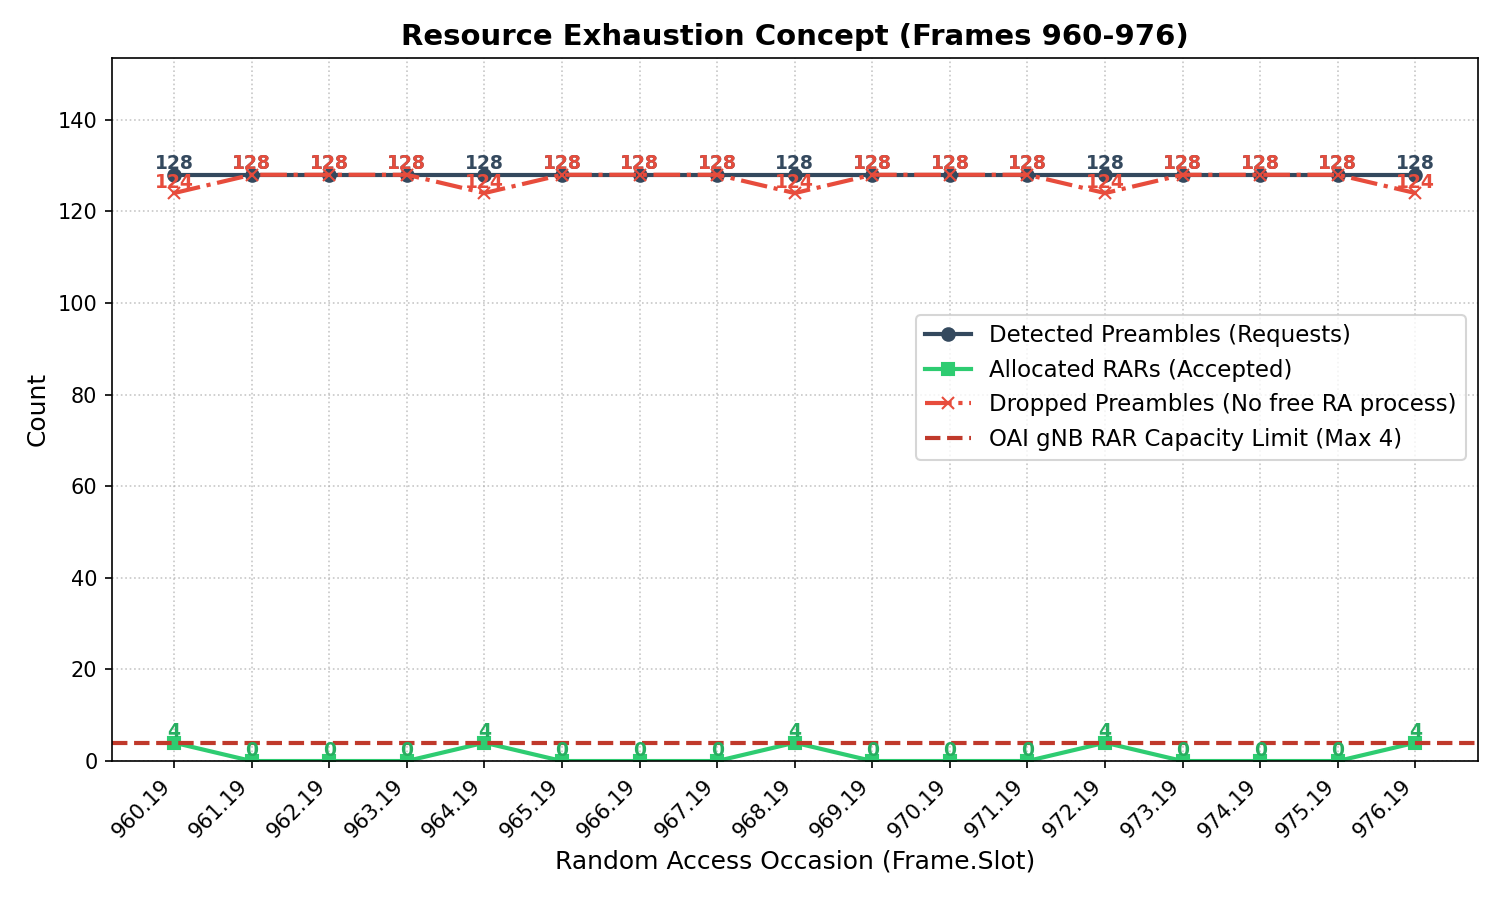
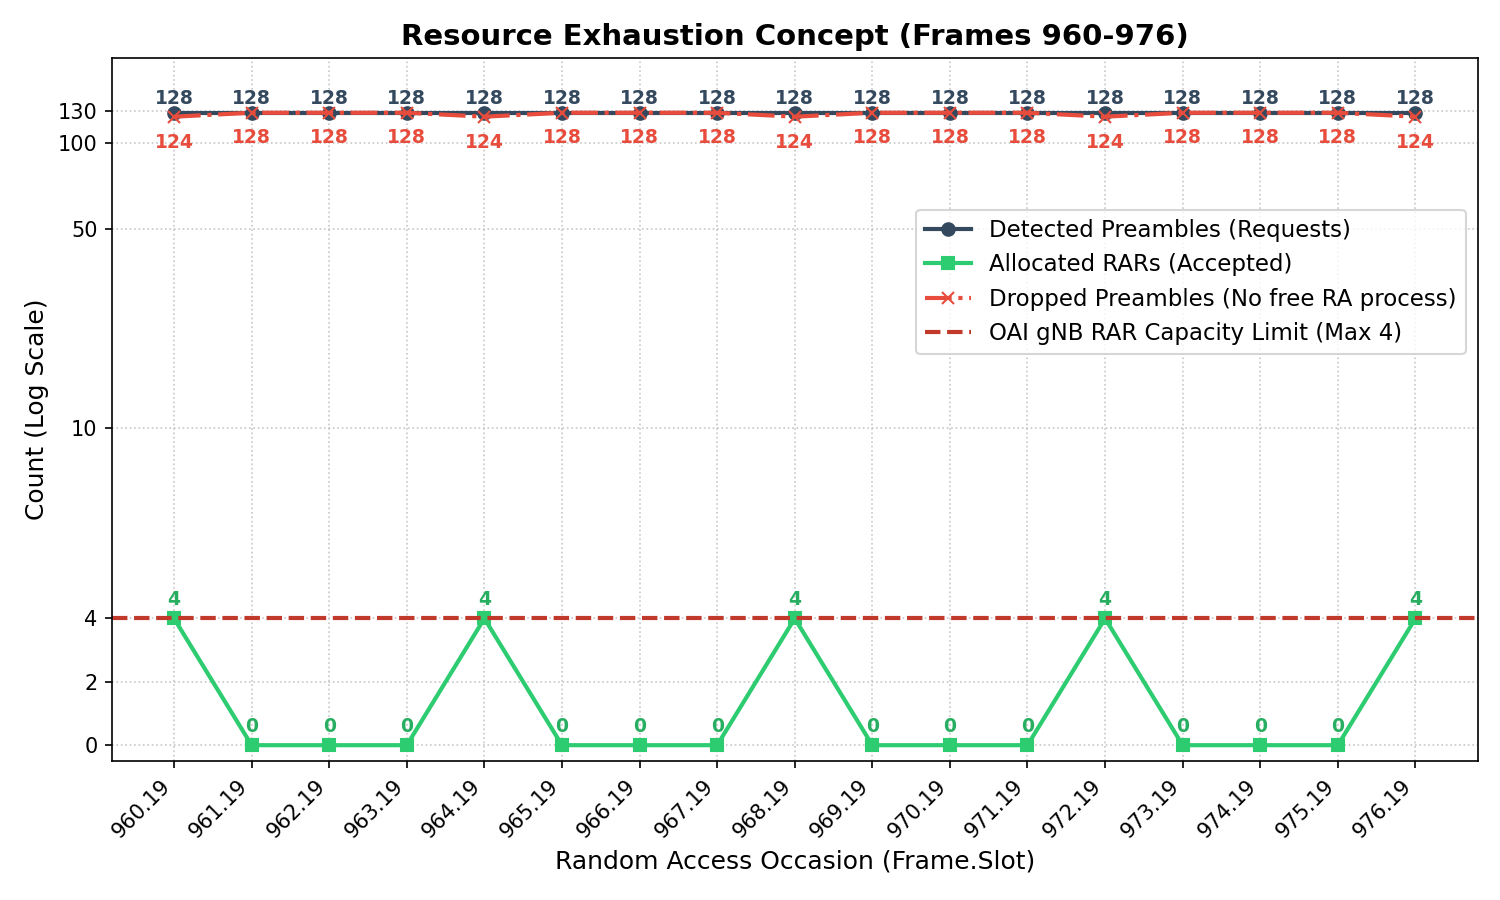
add: resource exhaustion concept 3

diff --git a/0512/plot_rar_count_twinx.py b/0512/plot_rar_count_twinx.py
@@ -1,0 +1,100 @@
+#!/usr/bin/env python3
+import re
+from pathlib import Path
+from collections import defaultdict
+import matplotlib
+matplotlib.use("Agg")
+import matplotlib.pyplot as plt
+import numpy as np
+
+LOG_FILE = Path(__file__).parent / "oai-fdm24.log"
+OUT_DIR = Path(__file__).parent
+
+RAPROC_PAT = re.compile(r"\[RAPROC\] Frame (\d+), slot (\d+), fdm (\d+)")
+NO_FREE_PAT = re.compile(r"FAILURE:\s+(\d+)\.(\d+) initiating RA procedure for preamble index \d+: no free RA process")
+RA_INIT_PAT = re.compile(r"(\d+)\.(\d+) UE RA-RNTI [0-9a-f]+ TC-RNTI ([0-9a-f]+): initiating RA procedure")
+
+def parse_log():
+    ra_init_events = defaultdict(int)
+    ra_drop_events = defaultdict(int)
+    raproc_events = defaultdict(int)
+    with open(LOG_FILE, "r", errors="replace") as f:
+        for line in f:
+            line = re.sub(r"\x1b\[[0-9;]*m", "", line)
+            m = RAPROC_PAT.search(line)
+            if m:
+                raproc_events[(int(m[1]), int(m[2]))] += 1
+                continue
+            m = NO_FREE_PAT.search(line)
+            if m:
+                ra_drop_events[(int(m[1]), int(m[2]))] += 1
+                continue
+            m = RA_INIT_PAT.search(line)
+            if m:
+                ra_init_events[(int(m[1]), int(m[2]))] += 1
+                continue
+    return raproc_events, ra_init_events, ra_drop_events
+
+def main():
+    raproc, ra_init, ra_drop = parse_log()
+    all_occasions = sorted(set(raproc.keys()) | set(ra_init.keys()) | set(ra_drop.keys()))
+    filtered_occasions = [(f, s) for f, s in all_occasions if 960 <= f <= 976]
+    
+    x = np.arange(len(filtered_occasions))
+    labels = [f"{f}.{s}" for f, s in filtered_occasions]
+    
+    detected = [raproc[occ] for occ in filtered_occasions]
+    accepted = [ra_init[occ] for occ in filtered_occasions]
+    dropped = [ra_drop[occ] for occ in filtered_occasions]
+    
+    fig_w = max(10, 1 + len(filtered_occasions) * 0.2)
+    fig, ax1 = plt.subplots(figsize=(fig_w, 6))
+    
+    # Ax1: left y-axis (low values: accepted)
+    ax1.plot(x, accepted, marker='s', linestyle='-', color='#2ecc71', label='Allocated RARs (Accepted)', linewidth=2, markersize=6)
+    ax1.axhline(y=4, color='#c0392b', linestyle='--', linewidth=2, label='OAI gNB RAR Capacity Limit (Max 4)')
+    ax1.set_ylim(-0.5, 6)
+    ax1.set_ylabel('Accepted / Capacity Count', color='#2ecc71', fontsize=12, fontweight='bold')
+    ax1.tick_params(axis='y', labelcolor='#2ecc71')
+    
+    # Ax2: right y-axis (high values: detected / dropped)
+    ax2 = ax1.twinx()
+    ax2.plot(x, detected, marker='o', linestyle='-', color='#34495e', label='Detected Preambles (Requests)', linewidth=2, markersize=6)
+    ax2.plot(x, dropped, marker='x', linestyle='-.', color='#e74c3c', label='Dropped Preambles (No free RA process)', linewidth=2, markersize=6)
+    ax2.set_ylim(120, 135)
+    ax2.set_ylabel('Detected / Dropped Count', color='#34495e', fontsize=12, fontweight='bold')
+    ax2.tick_params(axis='y', labelcolor='#34495e')
+    
+    # Texts
+    for i in range(len(x)):
+        ax1.text(x[i], accepted[i] + 0.2, f"{accepted[i]}", color='#27ae60', ha='center', va='bottom', fontsize=9, fontweight='bold')
+        if detected[i] != accepted[i]:
+            ax2.text(x[i], detected[i] + 0.3, f"{detected[i]}", color='#34495e', ha='center', va='bottom', fontsize=9, fontweight='bold')
+        if dropped[i] > 0:
+            ax2.text(x[i], dropped[i] - 1.0, f"{dropped[i]}", color='#e74c3c', ha='center', va='top', fontsize=9, fontweight='bold')
+
+    if len(x) > 40:
+        tick_step = max(1, len(x) // 20)
+        ax1.set_xticks(x[::tick_step])
+        ax1.set_xticklabels(labels[::tick_step], rotation=45, ha='right')
+    else:
+        ax1.set_xticks(x)
+        ax1.set_xticklabels(labels, rotation=45, ha='right')
+        
+    ax1.set_xlabel('Random Access Occasion (Frame.Slot)', fontsize=12)
+    ax1.set_title('Resource Exhaustion Concept (Frames 960-976)', fontsize=14, fontweight='bold')
+    
+    ax1.grid(True, linestyle=':', alpha=0.7)
+    
+    # Legend
+    lines_1, labels_1 = ax1.get_legend_handles_labels()
+    lines_2, labels_2 = ax2.get_legend_handles_labels()
+    ax1.legend(lines_1 + lines_2, labels_1 + labels_2, loc='center right', bbox_to_anchor=(0.98, 0.5), fontsize=11)
+    
+    plt.tight_layout()
+    out = OUT_DIR / "resource_exhaustion_concept_fdm24_twinx.png"
+    plt.savefig(out, dpi=150)
+    plt.close(fig)
+
+if __name__ == '__main__':
+    main()